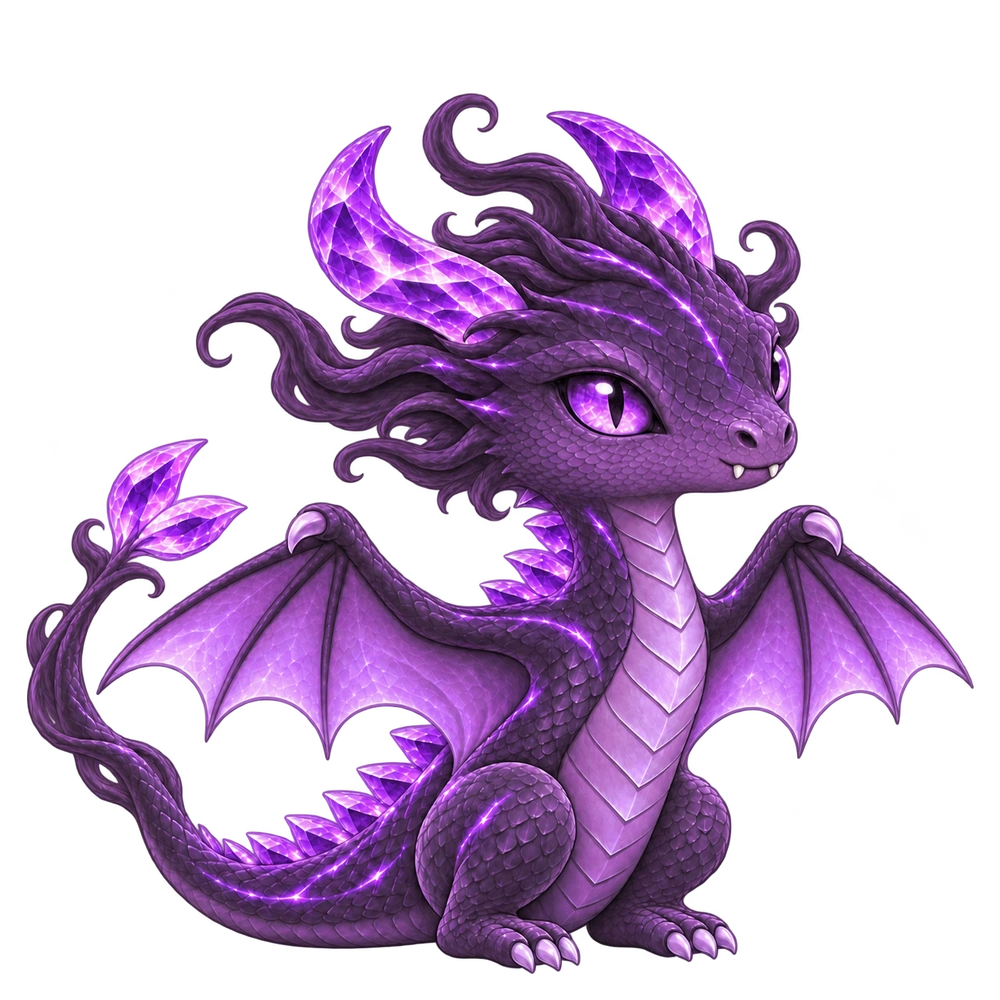
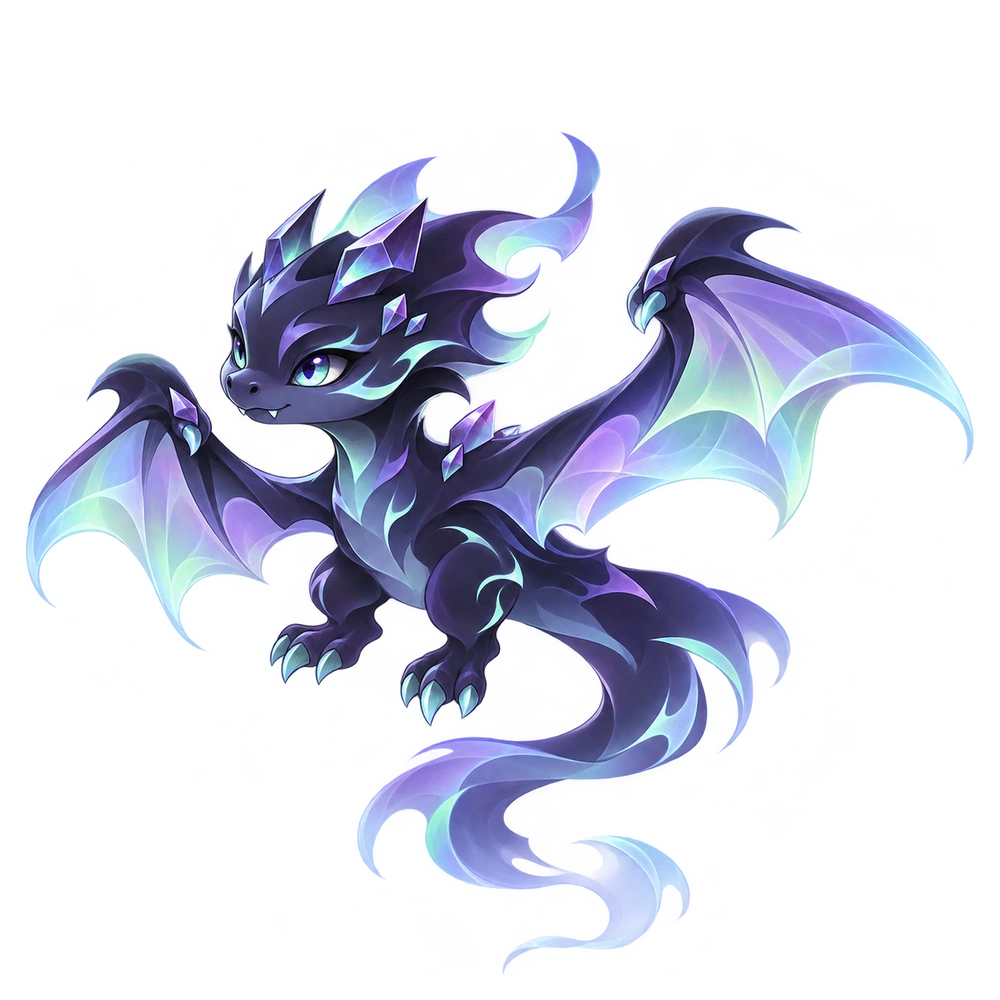
Rework young Zero as a spectral dragon

diff --git a/fantasy-rpg/WORLD_BIBLE.md b/fantasy-rpg/WORLD_BIBLE.md
@@ -120,7 +120,8 @@
 - 대화에서 생성한 캐릭터 이미지를 사용자가 제로의 ‘1차’ 모습으로 채택했다.
 - 그림자와 수정 같은 광석이 결합된 귀여운 아기 용.
 - 채택 이미지의 외형 기록: 검보라색의 부드러운 그림자 몸, 연기처럼 피어오르는 윤곽, 보랏빛 수정 뿔과 등·꼬리의 수정, 커다란 보라색 눈, 짧은 팔다리, 작은 날개와 말린 꼬리. 주위에 부화한 알껍데기가 있다.
-- 이는 1차 외형 기준이다. 후속 성장 외형은 미정이다.
+- 성체의 외형 방향은 사용자가 제시한 짙은 남보라색 용과 청록빛 비늘·날개 포인트를 기준으로 한다. 성체는 반물질 형태로 몸과 날개 가장자리가 푸른 그림자로 이어진다. 세 참고 이미지에서는 청록빛 반물질 실루엣, 겹이 느껴지는 얇은 날개막, 각진 수정 뿔과 비늘을 조합한다. 첨부 이미지는 실루엣과 색감의 참고이며, 성장 조건과 능력은 미정이다.
+- 아기 모습에도 성체와 이어지는 남보라·청록 계열 색과 반물질 표현을 사용한다. 얼굴은 또렷하고, 날개와 꼬리 끝은 반투명한 그림자로 풀린다. 둥글고 짧은 주둥이, 작은 윗송곳니 두 개, 볼에 갈라진 선이 없는 얼굴이 기준이다. 앞다리는 날개와 하나로 이어지고 별도의 앞발을 추가하지 않는다.
 - 최초 채택 이미지 자체의 원본은 확보하지 못했으나, 같은 디자인을 기준으로 재생성한 아래 시안의 PNG 원본은 GitHub에 저장했다.
 - 후속 사용자 요청: 날개는 앞다리에 붙어 있는 구조이며, 더 새침한 표정과 얄쌍한 인상을 지향한다. 이는 외형 방향이며 제로의 실제 성격이나 성별을 확정한 것은 아니다.
 - [앞다리 날개 연결 시안](assets/zero-stage1-wingarms.png): 앞다리와 날개막이 연결된 형태를 반영한 재생성본.

diff --git a/fantasy-rpg/desktop/world/WORLD_BIBLE.md b/fantasy-rpg/desktop/world/WORLD_BIBLE.md
@@ -120,7 +120,8 @@
 - 대화에서 생성한 캐릭터 이미지를 사용자가 제로의 ‘1차’ 모습으로 채택했다.
 - 그림자와 수정 같은 광석이 결합된 귀여운 아기 용.
 - 채택 이미지의 외형 기록: 검보라색의 부드러운 그림자 몸, 연기처럼 피어오르는 윤곽, 보랏빛 수정 뿔과 등·꼬리의 수정, 커다란 보라색 눈, 짧은 팔다리, 작은 날개와 말린 꼬리. 주위에 부화한 알껍데기가 있다.
-- 이는 1차 외형 기준이다. 후속 성장 외형은 미정이다.
+- 성체의 외형 방향은 사용자가 제시한 짙은 남보라색 용과 청록빛 비늘·날개 포인트를 기준으로 한다. 성체는 반물질 형태로 몸과 날개 가장자리가 푸른 그림자로 이어진다. 세 참고 이미지에서는 청록빛 반물질 실루엣, 겹이 느껴지는 얇은 날개막, 각진 수정 뿔과 비늘을 조합한다. 첨부 이미지는 실루엣과 색감의 참고이며, 성장 조건과 능력은 미정이다.
+- 아기 모습에도 성체와 이어지는 남보라·청록 계열 색과 반물질 표현을 사용한다. 얼굴은 또렷하고, 날개와 꼬리 끝은 반투명한 그림자로 풀린다. 둥글고 짧은 주둥이, 작은 윗송곳니 두 개, 볼에 갈라진 선이 없는 얼굴이 기준이다. 앞다리는 날개와 하나로 이어지고 별도의 앞발을 추가하지 않는다.
 - 최초 채택 이미지 자체의 원본은 확보하지 못했으나, 같은 디자인을 기준으로 재생성한 아래 시안의 PNG 원본은 GitHub에 저장했다.
 - 후속 사용자 요청: 날개는 앞다리에 붙어 있는 구조이며, 더 새침한 표정과 얄쌍한 인상을 지향한다. 이는 외형 방향이며 제로의 실제 성격이나 성별을 확정한 것은 아니다.
 - [앞다리 날개 연결 시안](assets/zero-stage1-wingarms.png): 앞다리와 날개막이 연결된 형태를 반영한 재생성본.

diff --git a/fantasy-rpg/desktop/README.md b/fantasy-rpg/desktop/README.md
@@ -1,4 +1,12 @@
 <!-- release-summary:start -->
+# v0.42.99 · 제로의 반물질 유년 모습
+
+- 성체의 남보라색과 청록빛을 새끼 제로에 반영했습니다. 날개와 꼬리 끝이 반투명한 그림자로 풀리고, 짧은 주둥이와 작은 윗송곳니 두 개가 보입니다.
+- 제로의 대화 초상화와 기본 일러스트를 갱신했습니다.
+- Windows x64 전체 실행본을 제공합니다. Windows 실기기 플레이는 별도 검수 대상입니다.
+
+<!-- release-summary:end -->
+
 # v0.42.98 · 판타지 일상복과 캐릭터 원화
 
 - 이세계 일상복 일부를 기본 의상의 색과 특징을 살린 판타지 의상으로 조정했습니다. 펜리와 천아는 짧고 몸에 맞는 혼합형 복장을 적용했습니다. 비스킷의 일반 비율 원화는 팔과 어깨의 근육 표현을 줄였습니다. 밀리아와 리르의 일상복 및 천아의 일상복·팔짱 컷신도 갱신했습니다.
@@ -6,7 +14,6 @@
 - 캐릭터 전신의 불투명 배경을 정리하고, 제로의 얼굴을 드래곤 형태에 맞췄습니다.
 - Windows x64 전체 실행본을 제공합니다. Windows 실기기 플레이는 별도 검수 대상입니다.
 
-<!-- release-summary:end -->
 
 # v0.42.97 · 캐릭터 원화 후광 제거
 
